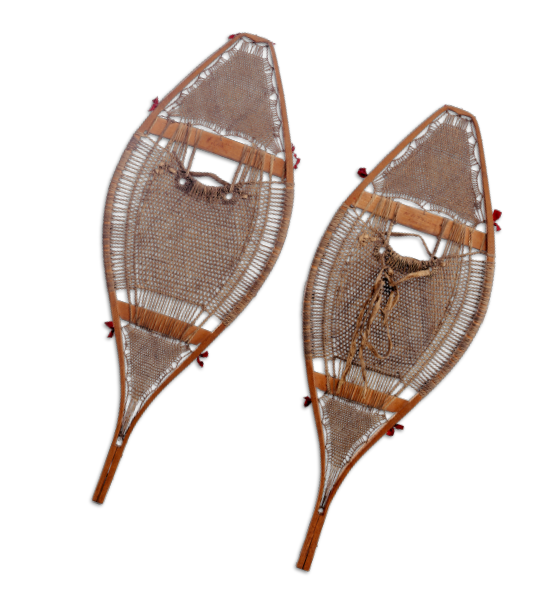
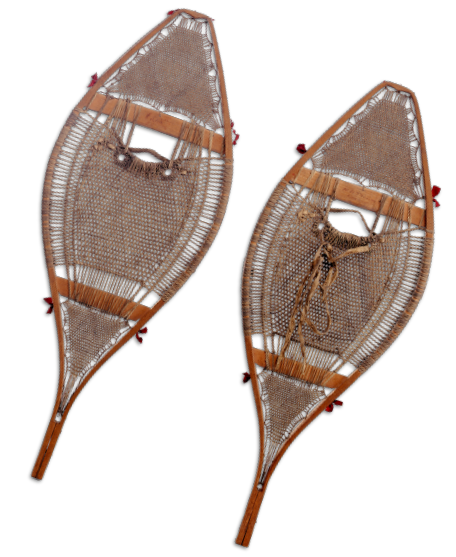
deploy: 035fa586146309b737e769995fb16c6dc1821169

diff --git a/styles/main.css b/styles/main.css
@@ -4804,7 +4804,6 @@ body.index {
 .content.index .main .gallery .image-container img {
   position: absolute;
   margin: 0;
-  padding: 4rem 5rem;
   height: inherit;
   width: inherit;
   object-fit: contain;
@@ -4820,6 +4819,48 @@ body.index {
 .content.index .main .gallery .image-container img.selected {
   visibility: visible;
   opacity: 1;
+  padding: 4rem 5rem;
+}
+.content.index .main .gallery .image-container img.selected.desk {
+  padding: 4rem 5rem;
+}
+.content.index .main .gallery .image-container img.selected.snowshoes {
+  padding: 3rem 5rem;
+}
+.content.index .main .gallery .image-container img.selected.lock-and-key {
+  padding: 4rem 5rem;
+}
+.content.index .main .gallery .image-container img.selected.walking-stick {
+  padding: 4rem 5rem;
+}
+.content.index .main .gallery .image-container img.selected.spyglass {
+  padding: 5rem 5rem;
+}
+.content.index .main .gallery .image-container img.selected.flute {
+  padding: 5rem 5rem;
+}
+@media only screen and (min-width: 320px) and (max-width: 480px) and (orientation: portrait) {
+  .content.index .main .gallery .image-container img.selected {
+    padding: 1rem 1rem;
+  }
+  .content.index .main .gallery .image-container img.selected.desk {
+    padding: 2rem 1rem;
+  }
+  .content.index .main .gallery .image-container img.selected.snowshoes {
+    padding: 1rem 0rem;
+  }
+  .content.index .main .gallery .image-container img.selected.lock-and-key {
+    padding: 0rem 4rem;
+  }
+  .content.index .main .gallery .image-container img.selected.walking-stick {
+    padding: 4rem 2rem;
+  }
+  .content.index .main .gallery .image-container img.selected.spyglass {
+    padding: 0rem 0rem;
+  }
+  .content.index .main .gallery .image-container img.selected.flute {
+    padding: 0rem 1rem;
+  }
 }
 .content.index .main .gallery .select {
   margin: -1rem 0 0 0;
